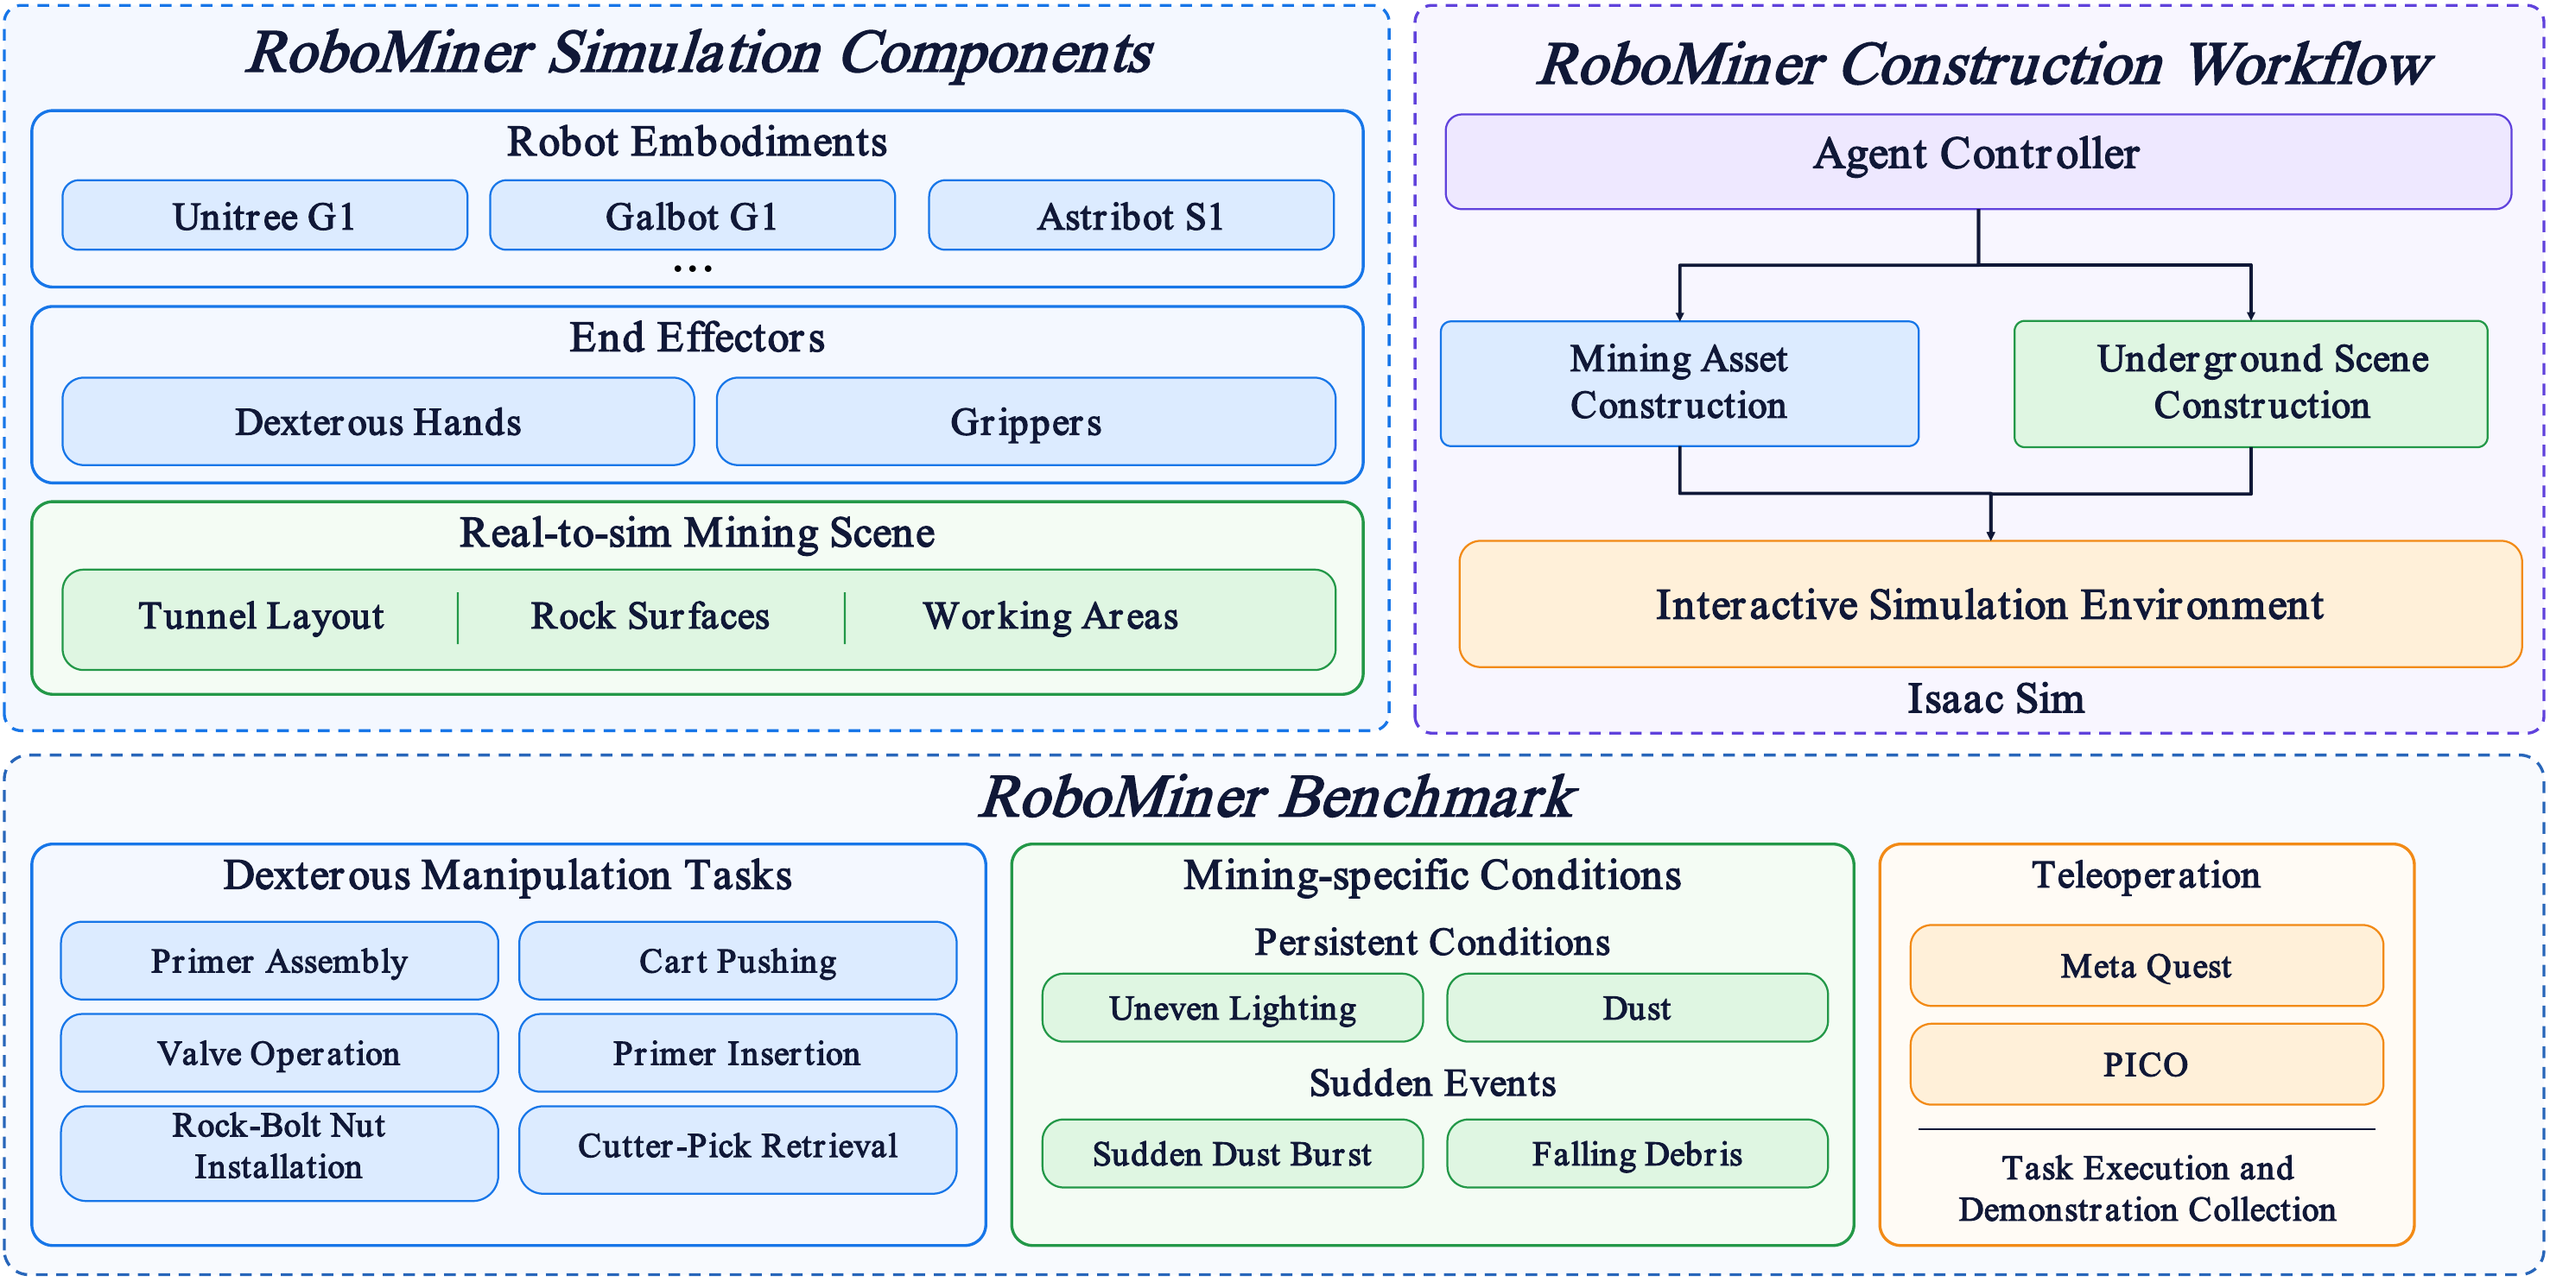
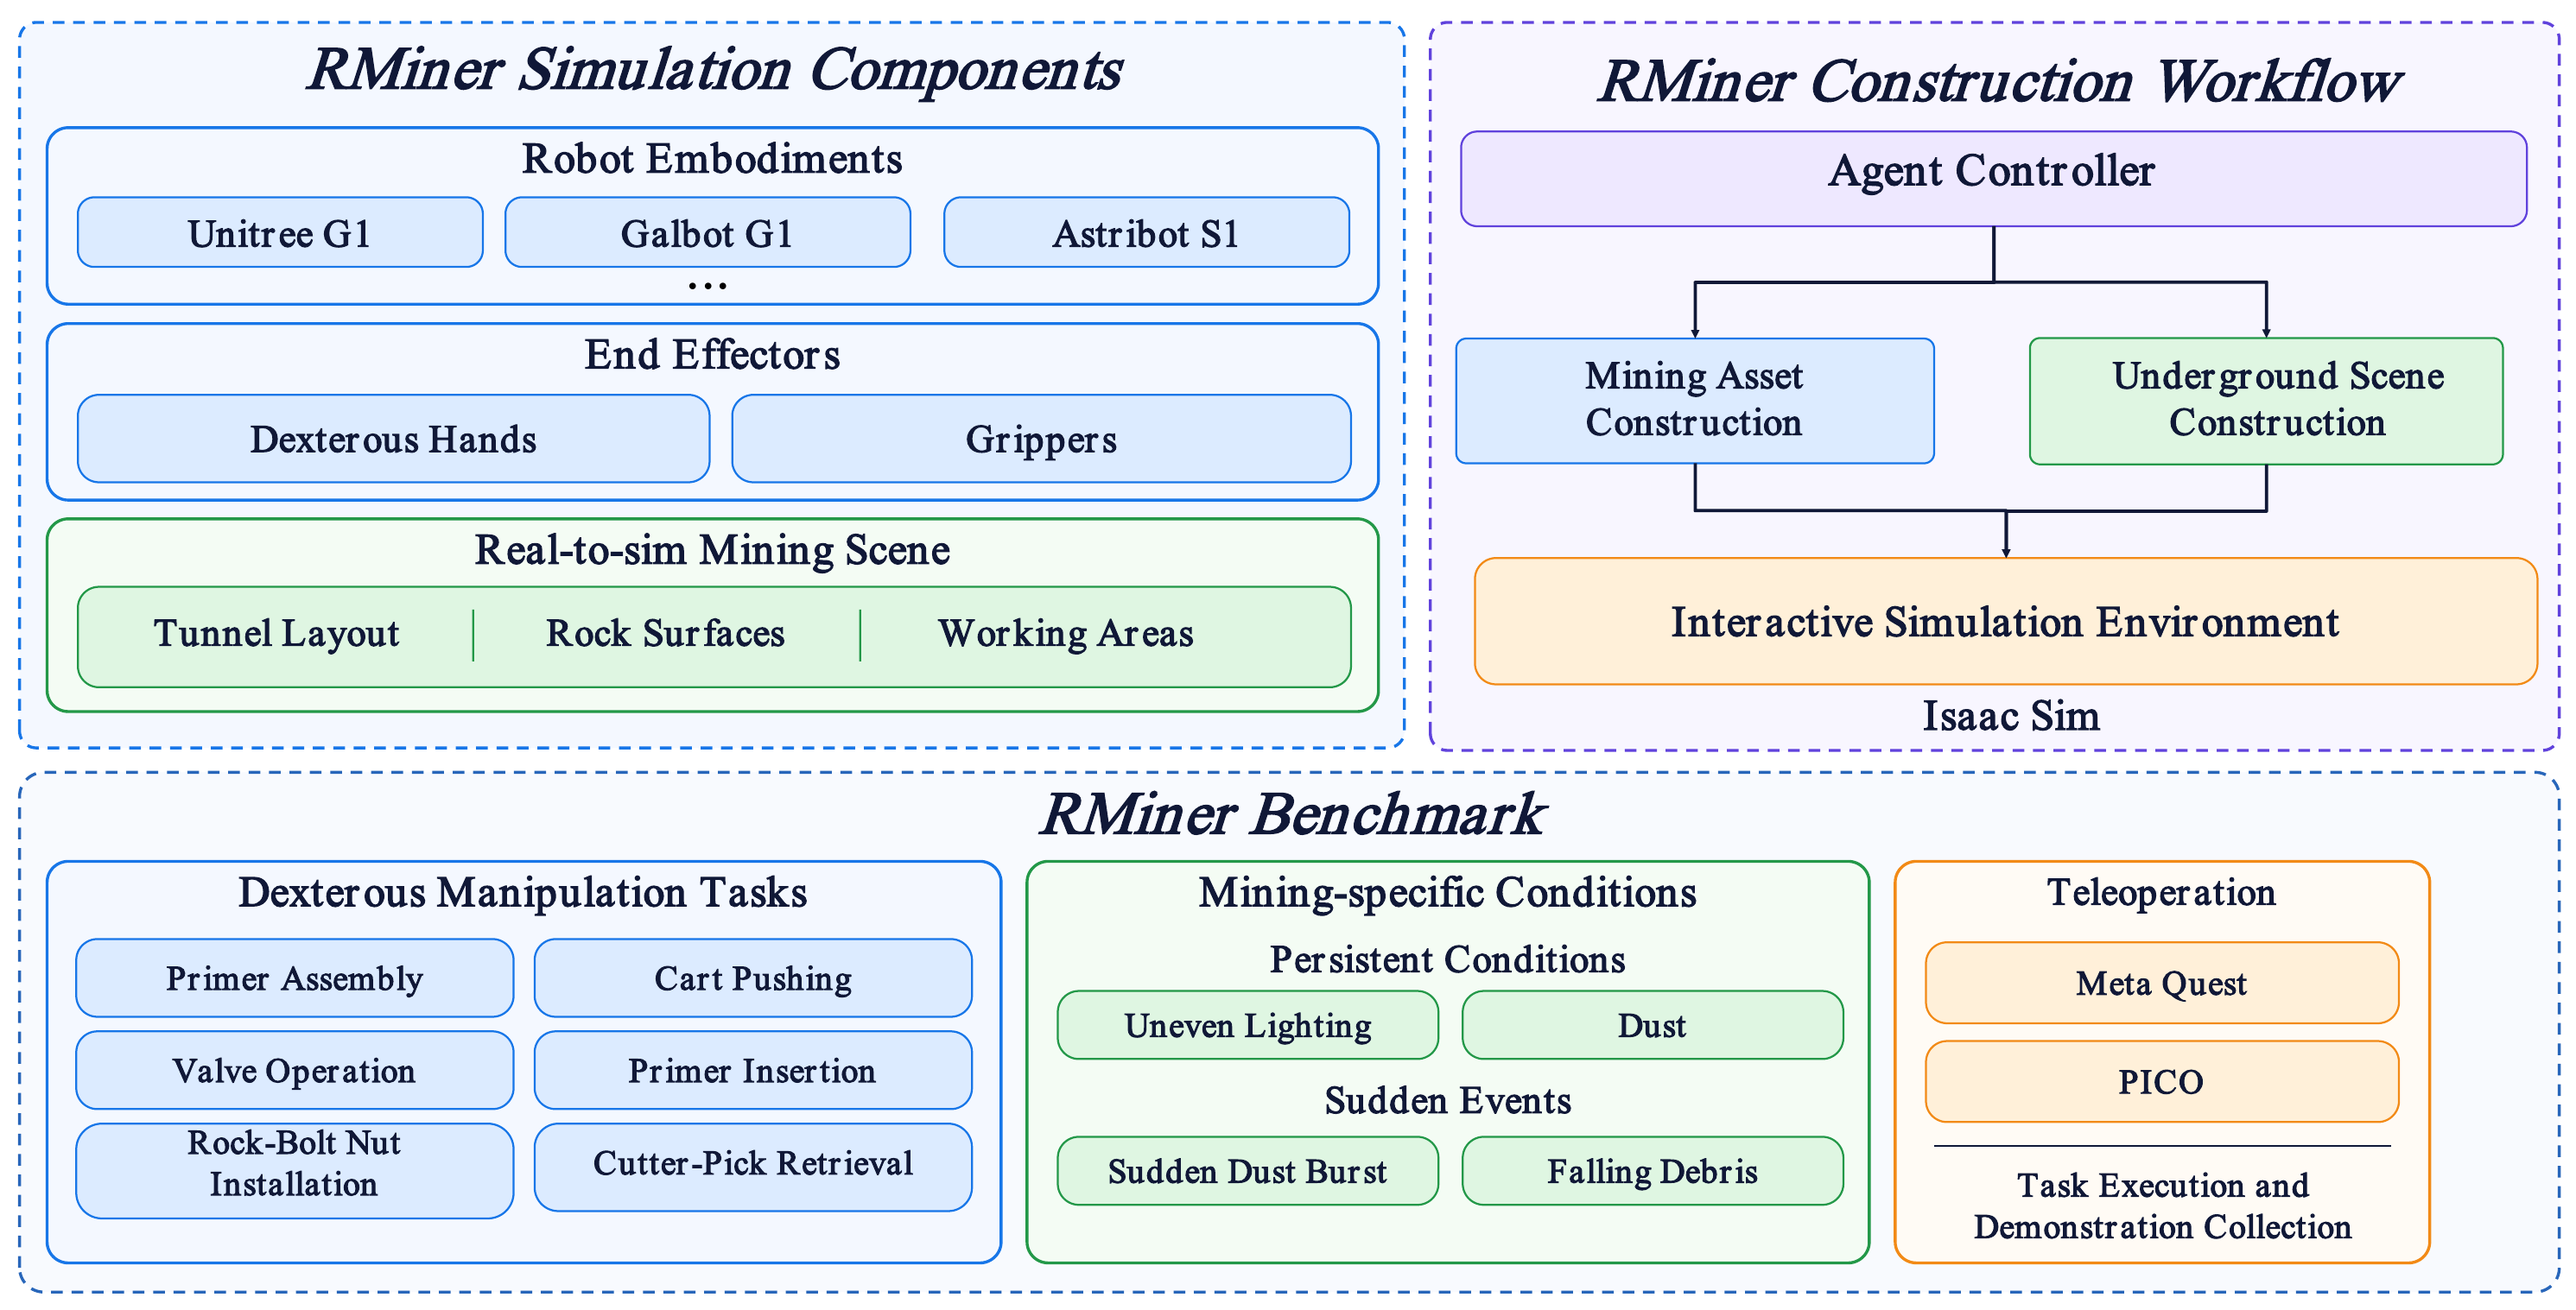
Update system overview to RMiner framework v4

Changed region(s): [[0.0, 0.0, 1.0, 1.0]]

diff --git a/index.html b/index.html
@@ -160,22 +160,22 @@
           </div>
 
           <figure class="architecture-figure reveal" aria-labelledby="architecture-caption">
-            <a class="architecture-image-link" href="assets/images/system-overview.png" target="_blank" rel="noopener" aria-label="Open the original RMiner system overview diagram at full size">
+            <a class="architecture-image-link" href="assets/images/system-overview.png?v=4" target="_blank" rel="noopener" aria-label="Open the RMiner system overview diagram at full size">
               <img
-                src="assets/images/system-overview.png"
-                alt="Original system diagram showing robot embodiments, end effectors, and mining scenes; an agent-driven construction workflow; and a benchmark with six tasks, mining conditions, and teleoperation."
-                width="2952"
-                height="1485"
+                src="assets/images/system-overview.png?v=4"
+                alt="RMiner system diagram showing robot embodiments, end effectors, and mining scenes; an agent-driven construction workflow; and a benchmark with six tasks, mining conditions, and teleoperation."
+                width="2982"
+                height="1517"
                 loading="lazy"
                 decoding="async"
               />
             </a>
             <figcaption id="architecture-caption">
               <span>
-                RMiner system overview: simulation components, construction workflow, and benchmark
-                capabilities. “RoboMiner” is the earlier project name retained in the original diagram.
+                RMiner system overview: simulation components and an agent-driven construction
+                workflow support a benchmark of mining tasks, environmental conditions, and teleoperation.
               </span>
-              <a href="assets/images/system-overview.png" target="_blank" rel="noopener">Open full size <span aria-hidden="true">↗</span></a>
+              <a href="assets/images/system-overview.png?v=4" target="_blank" rel="noopener">Open full size <span aria-hidden="true">↗</span></a>
             </figcaption>
           </figure>
         </div>
